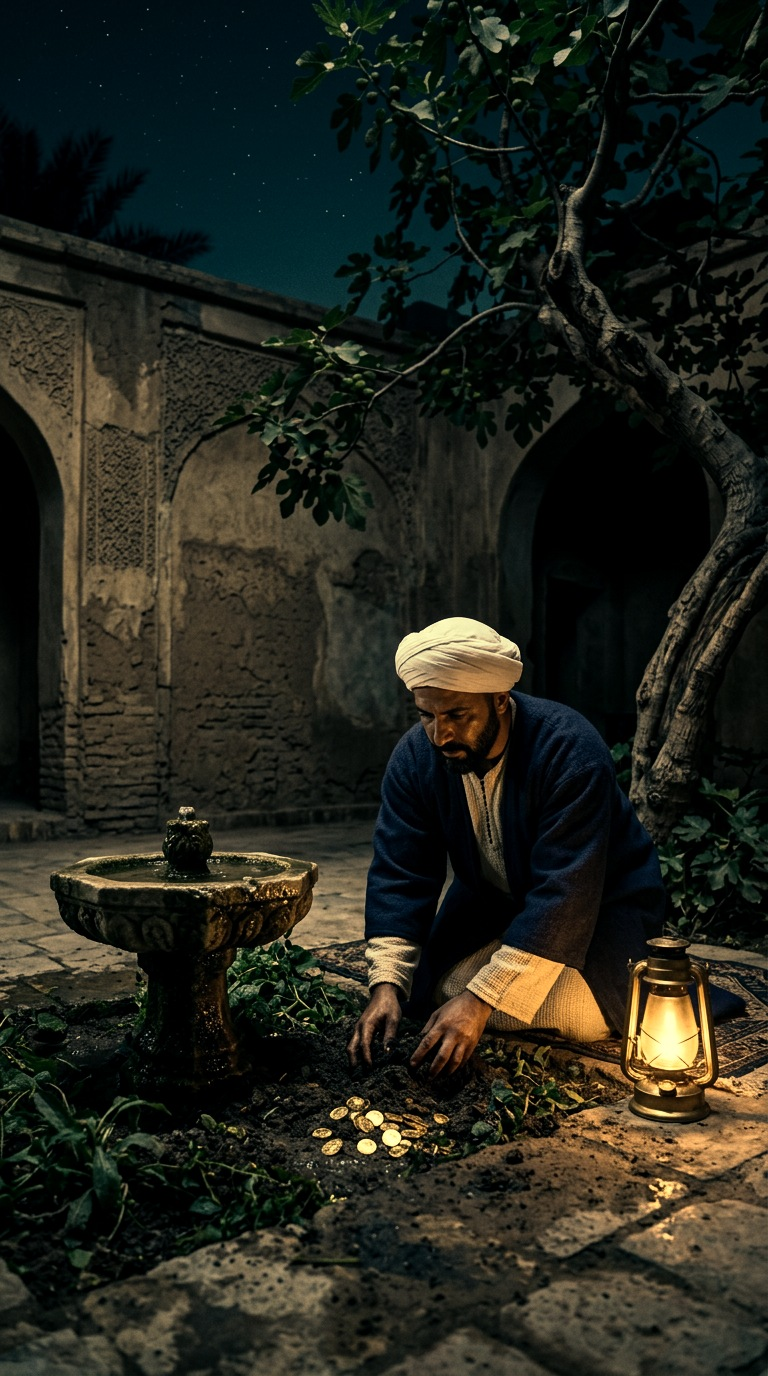
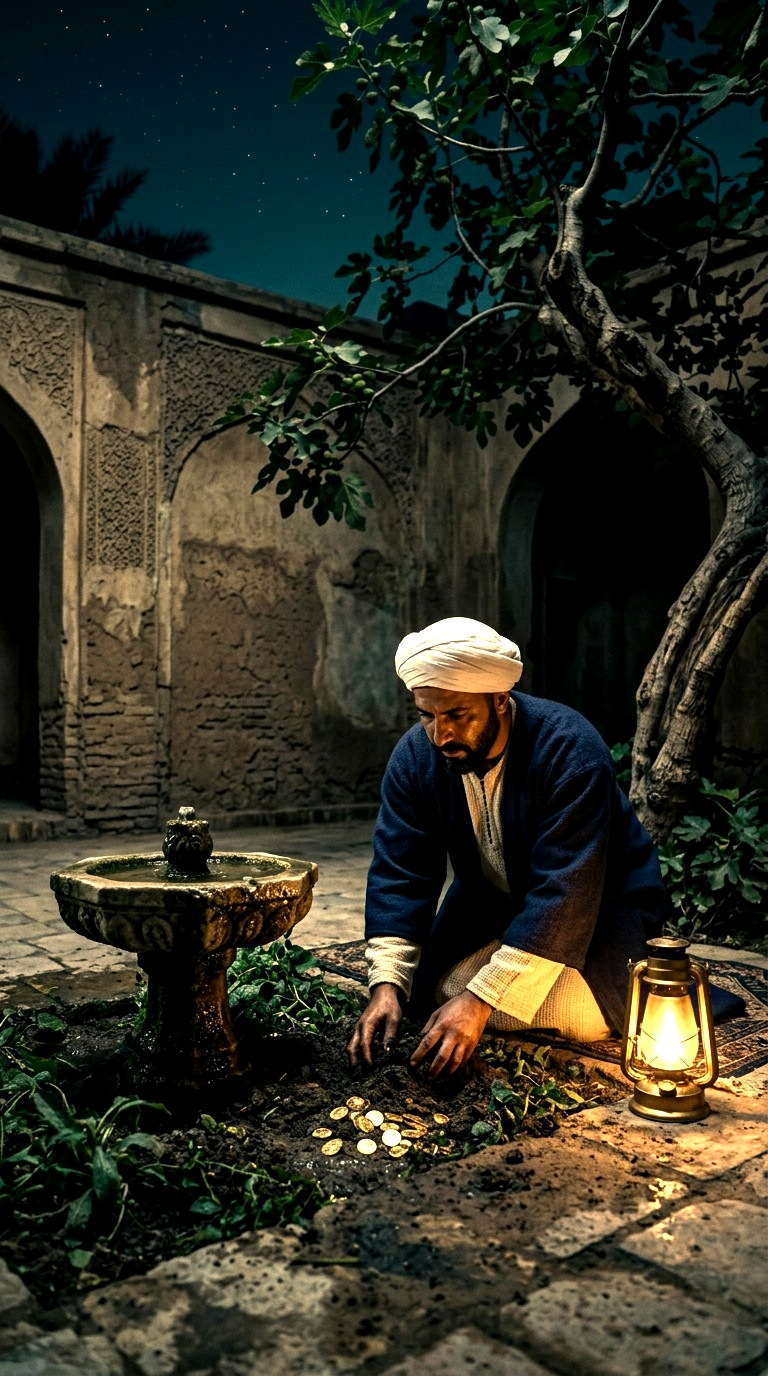
Log Ea-nasir TikTok results; brighten Baghdad hook frame
Claude-Session: https://claude.ai/code/session_01WFvCcbMQgWaeBe2dqRC8qC

diff --git a/videos/baghdad-treasure/film/index.html b/videos/baghdad-treasure/film/index.html
@@ -91,7 +91,8 @@ SHOTS.forEach(([k,a,b,s0,s1,x0,x1,y0,y1], i) => {
 // punch-in on the twist "بيتَه هو"
 tl.fromTo("#flash", {opacity:0}, {opacity:.35, duration:.06, yoyo:true, repeat:1}, 40.06);
 // hook title: visible from frame 0, leaves when the backstory starts
-tl.set('#hook', {opacity:1}, 0);
+tl.set("#hook", {opacity:1}, 0);
+tl.fromTo("#hook", {scale:1.08, transformOrigin:"100% 0%"}, {scale:1, duration:.5, ease:"power2.out"}, 0);
 tl.to('#hook', {opacity:0, duration:.25}, 7.45);
 // labels
 tl.to("#tag", {opacity:1, duration:.3}, 41.0);

diff --git a/videos/baghdad-treasure/scripts/grade.py b/videos/baghdad-treasure/scripts/grade.py
@@ -15,6 +15,12 @@ def grade(src, dst, mix=0.45):
     Image.fromarray((out * 255).astype(np.uint8)).save(dst, quality=93)
 
 keys = sys.argv[1].split(",") if len(sys.argv) > 1 else [f[:-4] for f in os.listdir("img") if f.endswith(".png")]
+BRIGHT = {"H1": 1.25}  # إطار الهوك: أكثر إضاءة، فالمشاهد يقرر في أول ثانيتين
 for k in keys:
-    grade(f"img/{k}.png", f"film/assets/img/{k}.jpg")
+    grade(f"img/{k}.png", f"film/assets/img/{k}.jpg", mix=0.3 if k in BRIGHT else 0.45)
+    if k in BRIGHT:
+        from PIL import ImageEnhance
+        im = Image.open(f"film/assets/img/{k}.jpg")
+        im = ImageEnhance.Contrast(ImageEnhance.Brightness(im).enhance(BRIGHT[k])).enhance(1.1)
+        im.save(f"film/assets/img/{k}.jpg", quality=93)
     print("graded", k)

diff --git a/docs/production-playbook.md b/docs/production-playbook.md
@@ -116,7 +116,7 @@
 | عروض الحرفة السينمائية | خمس محاولات | فوياجر "جميل جداً وممتع"، والبقية ضعيفة |
 | بوستر نهر دجلة | بوستر بنص عربي | مجرد وغير واضح |
 | ستيكر "عاشت إيدك" | GIF وWebP وWEBM | مكتمل |
-| أقدم شكوى زبون (ناني ضد إيا ناصر) | برزنتيشن سينمائي 9:16، 55 ثانية، حوار بصوتين، `videos/ea-nasir` | جاهز للنشر 1 نوفمبر. مراجعة Gemini بالاستماع: الصوت 8.5 والموسيقى 7 قبل خفضها |
+| أقدم شكوى زبون (ناني ضد إيا ناصر) | برزنتيشن سينمائي 9:16، 55 ثانية، حوار بصوتين، `videos/ea-nasir` | نُشر 1 نوفمبر. 133 مشاهدة (92% من صفحة "لك")، 11 إعجاباً، 1 حفظ، 0 تعليق، 0 متابع. **متوسط المشاهدة 6.2 ثانية، والإكمال 1.92%، و53% غادروا قبل الثانية 2** |
 
 ## دروس الزير سالم (26 أكتوبر)
 
@@ -133,6 +133,14 @@
 - حوار Gemini متعدد المتكلمين بطلب واحد: صوتان ثابتان، وطلب واحد من الحصة، والتوقيت من Whisper.
 - Claude لا يسمع، لكن Gemini يسمع: أرسل المزيج النهائي له واطلب نقداً صارماً قبل النشر.
 - الترجمة تُحذف حيث يظهر النص نفسه كعنوان أو اقتباس، وإلا تكرر الكلام مرتين على الشاشة.
+
+## دروس أرقام "أقدم شكوى زبون"
+
+- نصف المشاهدين غادروا قبل الثانية 2، وبعدها نزول هادئ ومستمر. **الجودة لم تُرَ أصلاً: القرار يُتخذ في الإطار الأول.**
+- الإطار الأول كان صورة بنية داكنة منخفضة التباين، مع جملة غاضبة بلا سياق ("ماذا تظنّني؟!"). المشاهد لا يعرف عمّ الفيديو، فيمرّر.
+- القاعدة الجديدة: الإطار الأول يقول القصة كلها بسؤال واضح ("وجد الكنز تحت بيته… بعد أن سُجن في مصر!") فوق صورة مضيئة فيها الشيء نفسه (الذهب)، وحركة من الإطار صفر.
+- الفيديو الأقصر رفع الإكمال (1.92% مقابل 1.2%) لكنه لم يرفع المشاهدة، لأن الخسارة كلها في أول ثانيتين.
+- 133 مشاهدة دفعة اختبار أولى من تيك توك؛ الاحتفاظ الضعيف فيها أوقف التوزيع (القمة ثم الهبوط في المخطط).
 
 ## الخطوة التالية الأهم
 
